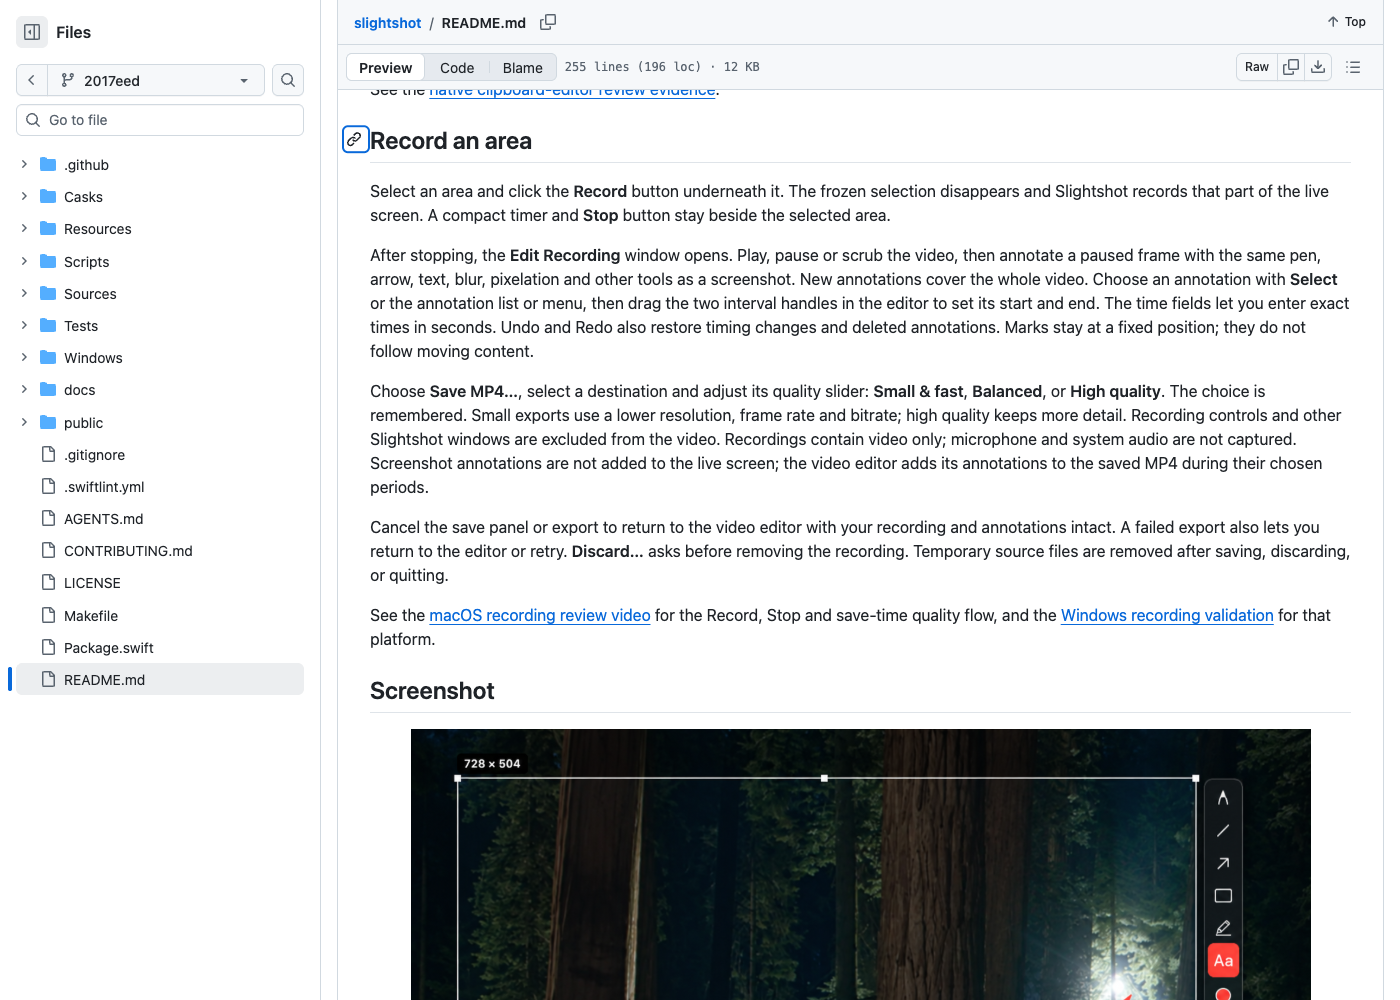
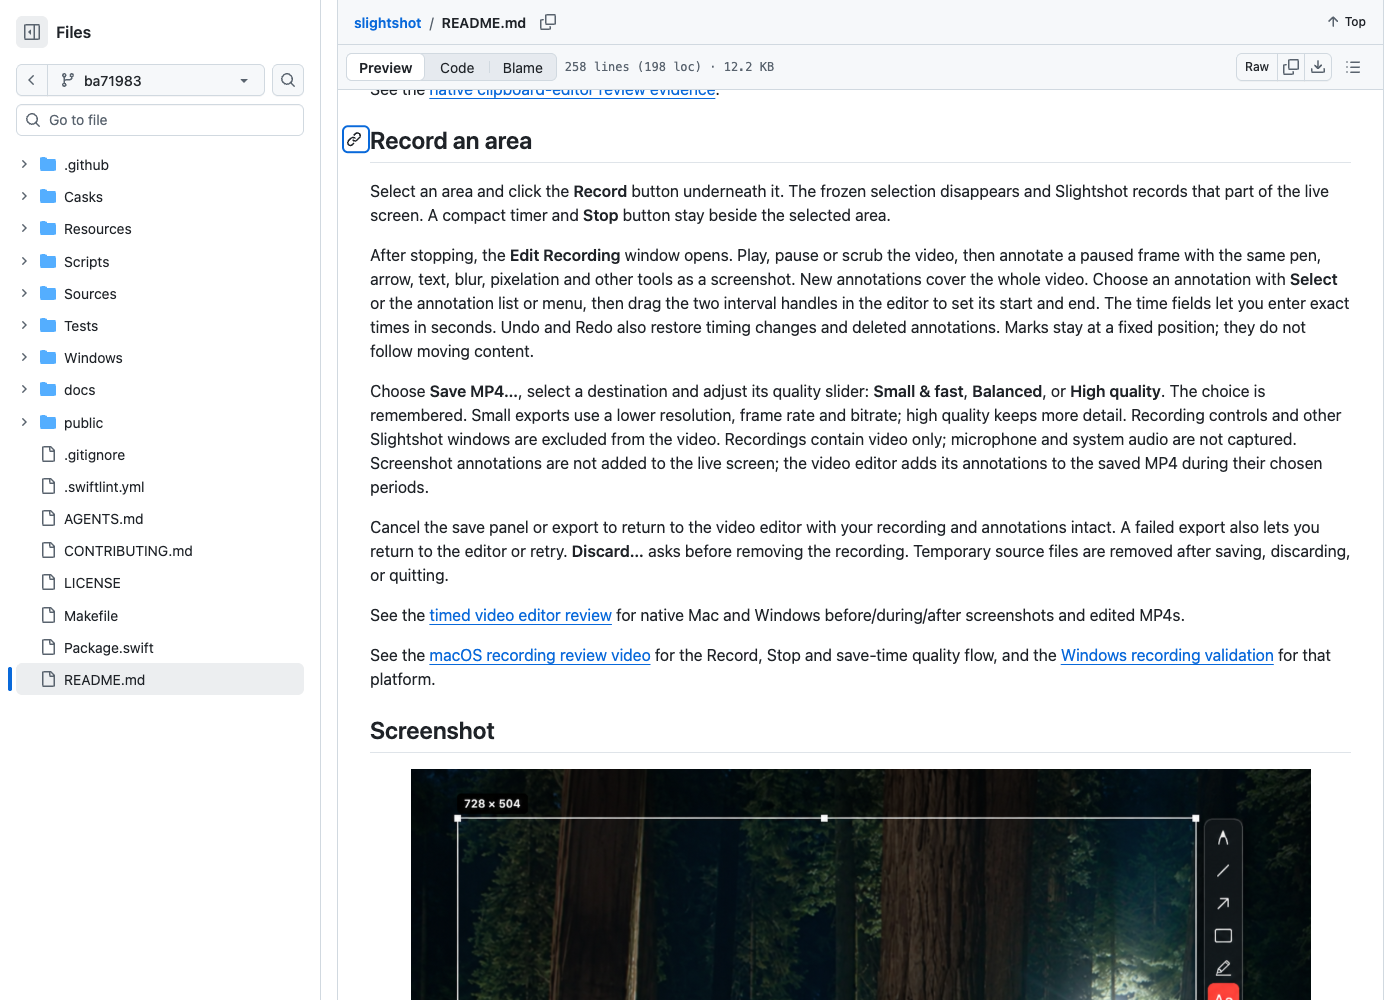
Capture the rendered video editor instructions and evidence link

diff --git a/docs/review/timed-video-annotations/README.md b/docs/review/timed-video-annotations/README.md
@@ -68,7 +68,7 @@ Marks cover **1–3 seconds**:
   and temporary-source cleanup.
 - Shared: 20 original UI icons verified and 14 Python packaging tests passed.
 - Documentation: [GitHub-rendered recording instructions](documentation/readme-video-editor.png),
-  captured from README source `2017eed8ba0bbf66bef542cc69c798529f722f71`.
+  captured from README source `ba7198326b5781fa5a7182f178f84cda785d53d0`.
 
 This scope has fixed-position marks and a single selected interval, without motion
 tracking, keyframes, cutting or audio. Raster strength uses the existing screenshot
